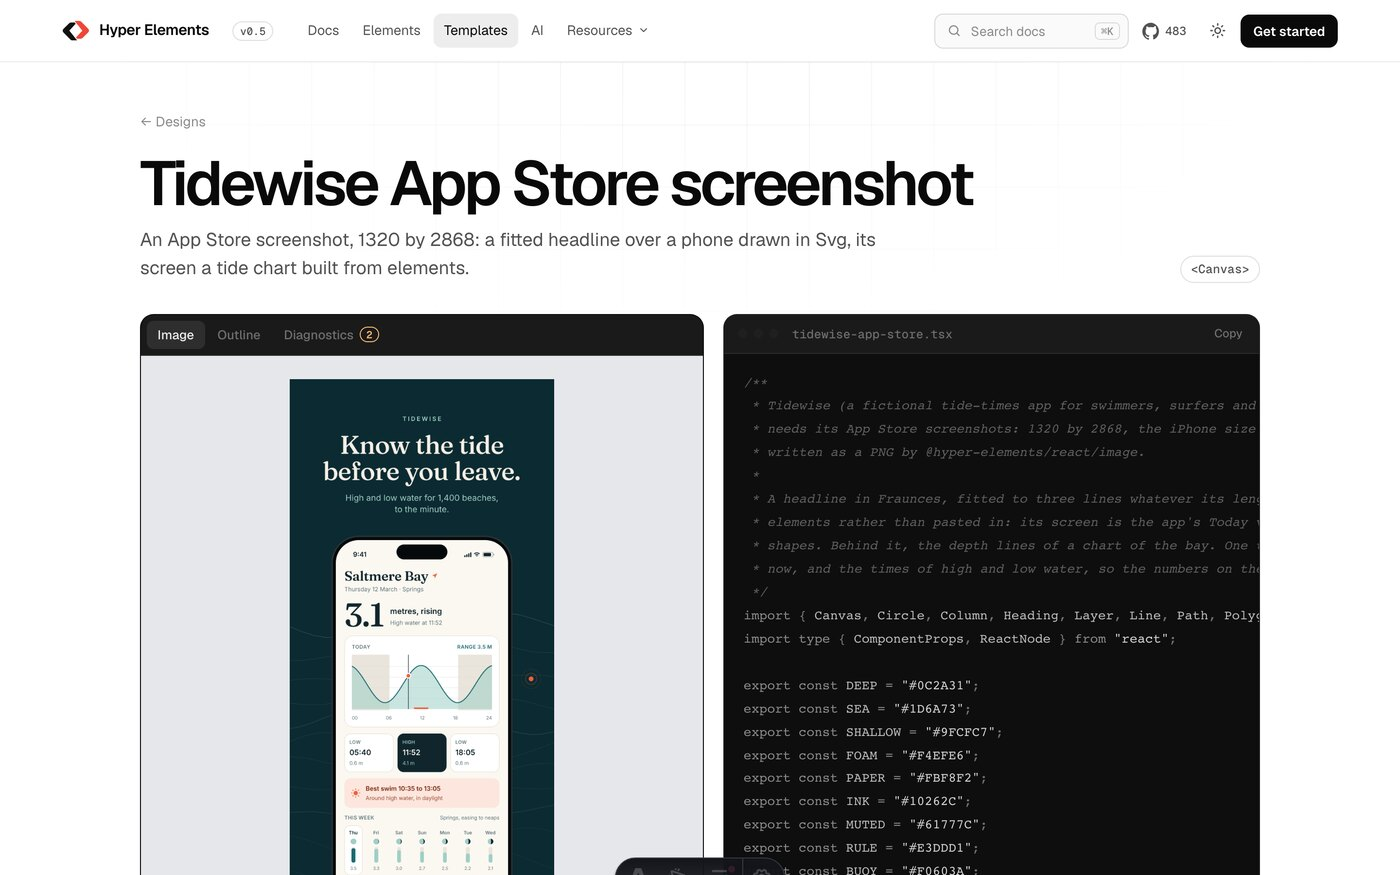
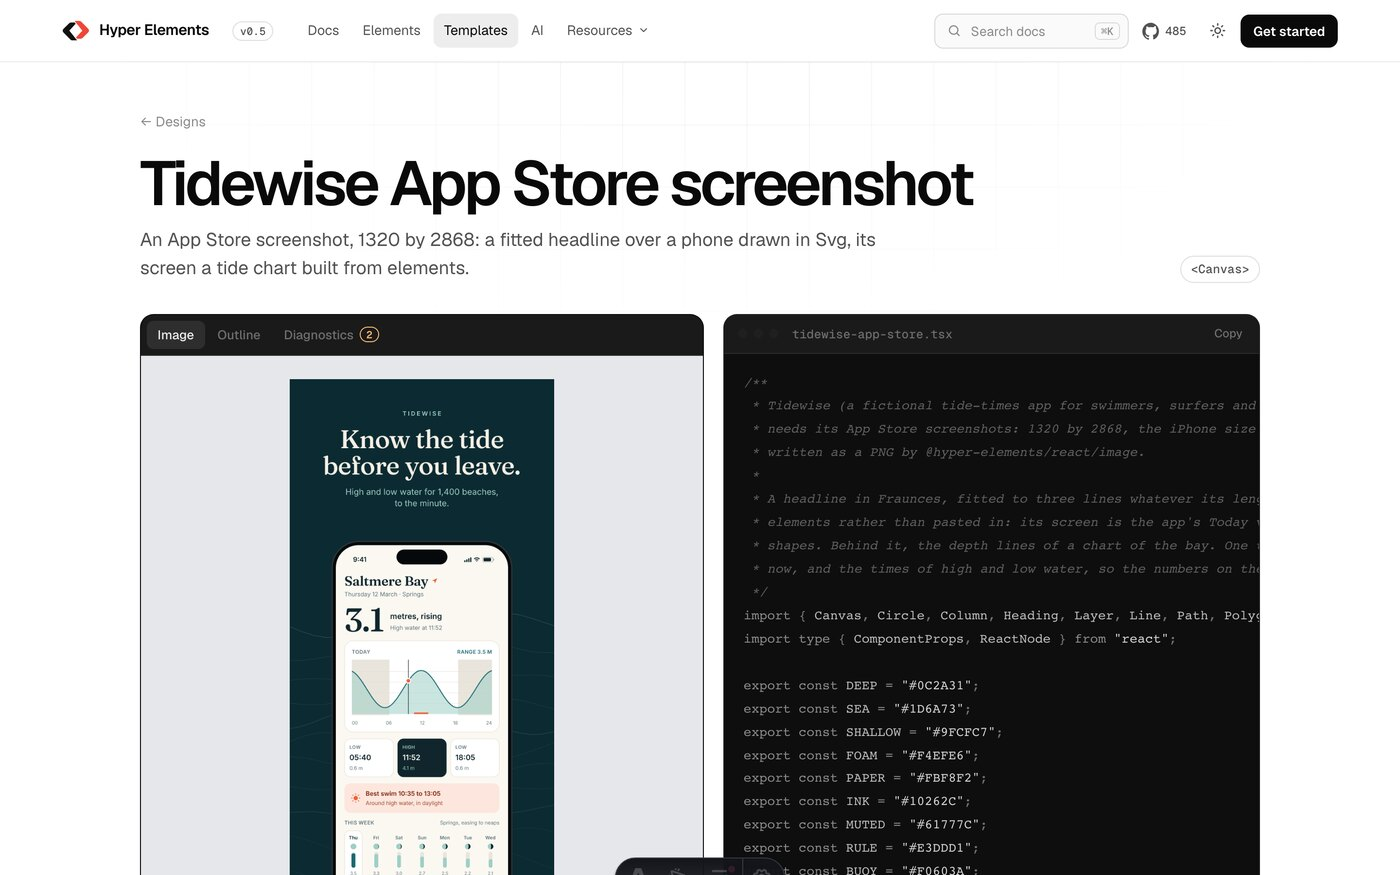
Gallery proof: rendered unchanged by the Hyper Elements site's own generator

Changed region(s): [[0.215, 0.4629, 0.3686, 1.0]]

diff --git a/README.md b/README.md
@@ -139,13 +139,12 @@ it. `npx tsc --noEmit` passes.
 
 ## Add it to the gallery
 
-Copy [`src/tidewise-app-store.tsx`](src/tidewise-app-store.tsx) to `apps/website/examples/templates/`. It has the
-gallery's `meta` and renders with no props. It needs no image files: in this version the phone's screen is drawn in
-elements.
+Copy [`src/tidewise-app-store.tsx`](src/tidewise-app-store.tsx) to `apps/website/examples/templates/`. It has the gallery's `meta` and renders with no props.
+It needs no image files: in this version the phone's screen is drawn in elements.
 
 We tested exactly that: the file, unchanged, in a local clone of the Hyper Elements site, through the site's own
-generator (`pnpm generate`) and dev server. It rendered with 2 notes (the HTML preview draws fitted text at its
-largest size), and appears on `/templates/tidewise-app-store` like the official designs:
+generator (`pnpm generate`) and dev server. It rendered with 2 notes, both `info` (the HTML preview draws fitted text at its largest size; the PNG measures it), and appears on `/templates/tidewise-app-store` beside the
+official designs:
 
 ![The design on its page in a local build of the Hyper Elements template gallery, with its preview and source.](docs/in-the-gallery.jpg)
 
